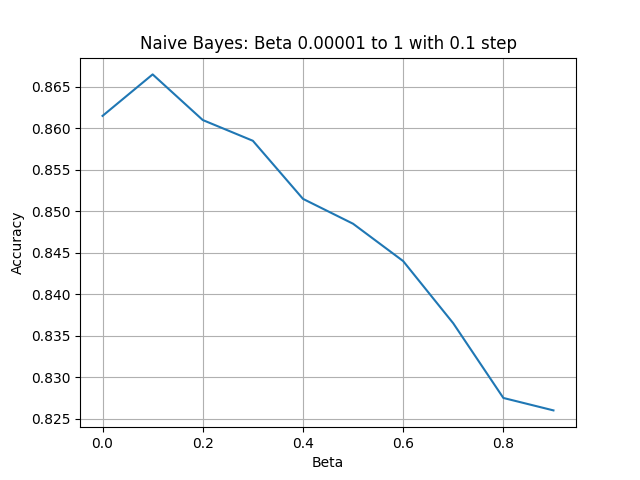
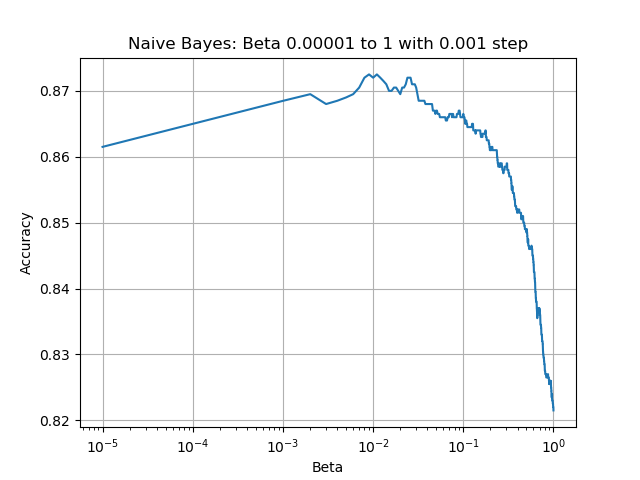
Finished Running naive bayes with 0.001 step size.

diff --git a/test.py b/test.py
@@ -17,8 +17,8 @@ def plot_naive_bayes(step_size):
         beta.append(i)
         acc.append(main.multi_classification_nb(i))
     fig, ax = plt.subplots()
-    #ax.semilogx(beta, acc)
-    ax.plot(beta, acc)
+    ax.semilogx(beta, acc)
+    #ax.plot(beta, acc)
     ax.set(xlabel='Beta', ylabel='Accuracy',
            title='Naive Bayes: Beta 0.00001 to 1 with ' + str(step_size) +' step')
     ax.grid()
@@ -53,7 +53,7 @@ def perform_other_tests():
 
 if (__name__ == '__main__'):
     #perform_other_tests()
-    plot_naive_bayes(0.01)
+    plot_naive_bayes(0.001)
 
     #mat = util.process_csv('test.csv',0)
 

diff --git a/util.py b/util.py
@@ -255,4 +255,4 @@ def process_data_for_nb():
 if (__name__ == '__main__'):
     partition_csv('data/training.csv', 10000)
     process_data_for_lr()
-    #process_data_for_nb()
+    process_data_for_nb()
